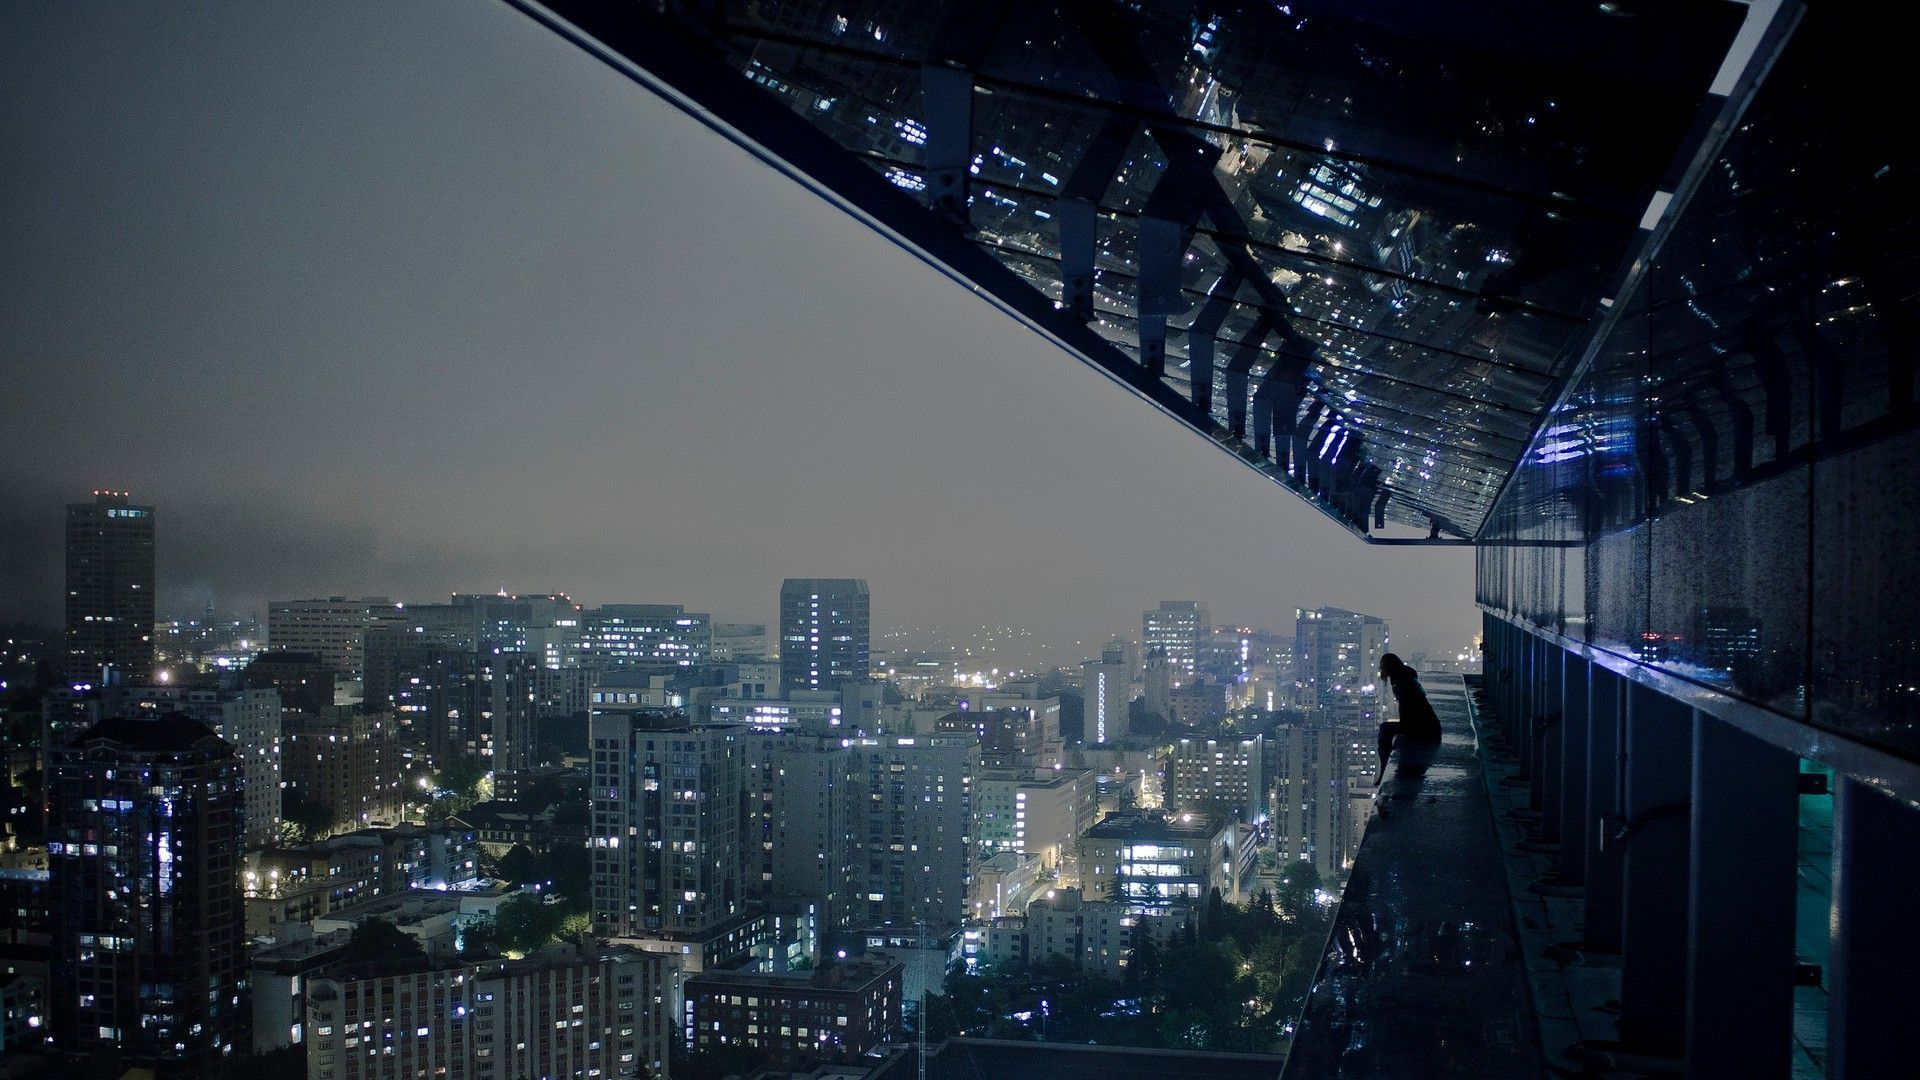
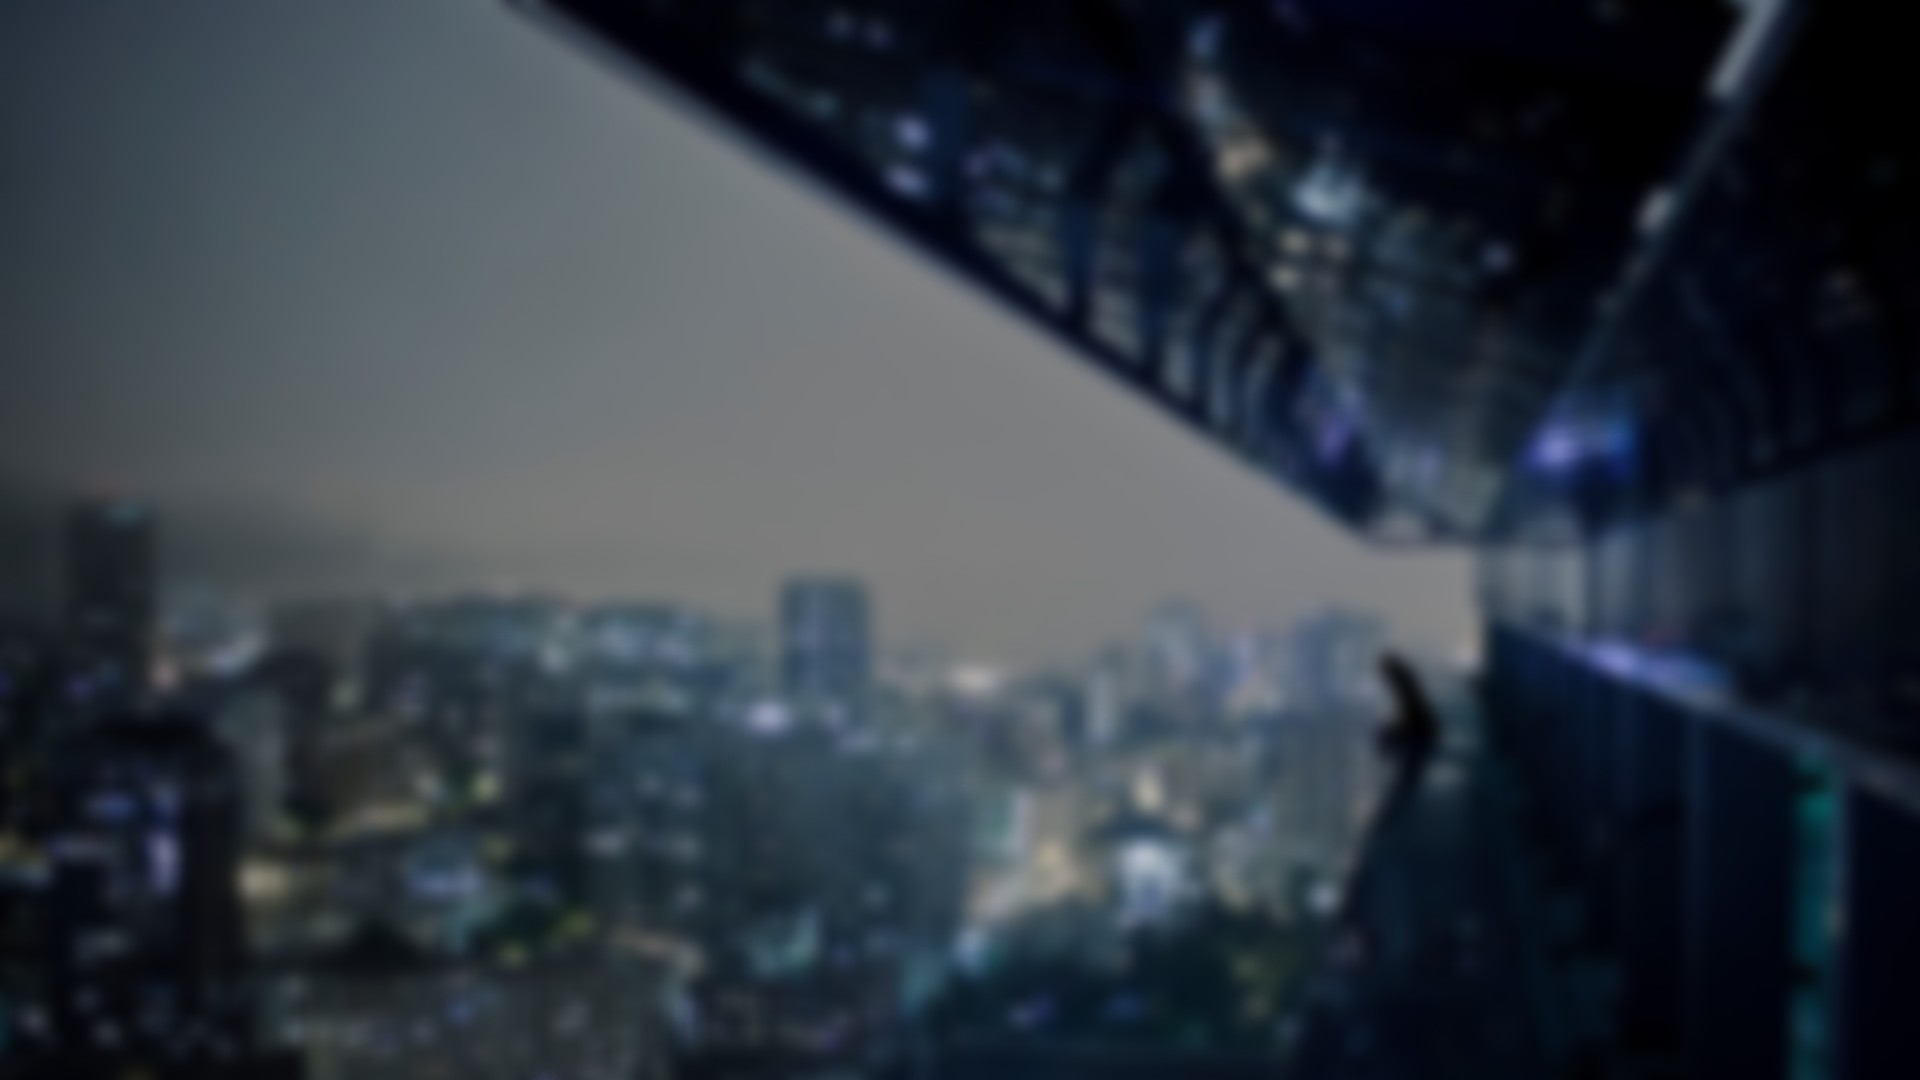
Updated Covers

diff --git a/Lessons/index.html b/Lessons/index.html
@@ -9,7 +9,7 @@
   <link rel="stylesheet" href="../style.css">
   <title>Josh's Portfolio | Lessons</title>
 </head>
-<body class="lessons-cover">
+<body class="bg-dark">
   <nav class="navbar navbar-dark bg-gradient navbar-expand-sm fixed-top">
     <a href="../index.html" class="navbar-brand">Josh Friedman</a>
     <button class="navbar-toggler" data-toggle="collapse" data-target="#navbarCollapse">
@@ -40,19 +40,18 @@
       </ul>
     </div>
   </nav>
-  <div class="jumbotron jumbotron-fluid lessons-cover h-100">
-    <div class="container text-light inner-cover h-100 row pl-5 pt-5">
-      <div class="col-md-6">
-        <h1 class="display-4">Lessons</h1>
+  <div class="jumbotron jumbotron-fluid lessons-cover h-100 d-flex">
+    <div class="container text-light inner-cover row m-auto justify-content-center align-self-center">
+      <div class="cover-text rounded text-center  p-3 justify-content-center">
+        <h1 class="display-1">Lessons</h1>
         <p class="lead">Scroll down to view the available lessons.</p>
       </div>
     </div>
   </div>
-  <div class="blur flex-grow-1"></div>
   <div class="container">
     <div class="row">
       <div class="col-sm-4 pb-3">
-        <div class="card h-100 bg-dark text-white">
+        <div class="card h-100 bg-darker text-white">
           <div class="card-header">
             Lesson 1
           </div>
@@ -66,7 +65,7 @@
         </div>
       </div>
       <div class="col-sm-4 pb-3">
-        <div class="card h-100 bg-dark text-white">
+        <div class="card h-100 bg-darker text-white">
           <div class="card-header">
             Lesson 2
           </div>
@@ -80,7 +79,7 @@
         </div>
       </div>
       <div class="col-sm-4 pb-3">
-        <div class="card h-100 bg-dark text-white">
+        <div class="card h-100 bg-darker text-white">
           <div class="card-header">
             Lesson 3
           </div>
@@ -94,7 +93,7 @@
         </div>
       </div>
       <div class="col-sm-4 pb-3">
-        <div class="card h-100 bg-dark text-white">
+        <div class="card h-100 bg-darker text-white">
           <div class="card-header">
             Lesson 4
           </div>
@@ -108,7 +107,7 @@
         </div>
       </div>
       <div class="col-sm-4 pb-3">
-        <div class="card h-100 bg-dark text-white">
+        <div class="card h-100 bg-darker text-white">
           <div class="card-header">
             Lesson 5
           </div>
@@ -122,7 +121,7 @@
         </div>
       </div>
       <div class="col-sm-4 pb-3">
-        <div class="card h-100 bg-dark text-white">
+        <div class="card h-100 bg-darker text-white">
           <div class="card-header">
             Lesson 6
           </div>
@@ -136,7 +135,7 @@
         </div>
       </div>
       <div class="col-sm-4 pb-3">
-        <div class="card h-100 bg-dark text-white">
+        <div class="card h-100 bg-darker text-white">
           <div class="card-header">
             Lesson 7
           </div>

diff --git a/Lessons/Searching.html b/Lessons/Searching.html
@@ -40,9 +40,9 @@
       </ul>
     </div>
   </nav>
-  <div class="jumbotron jumbotron-fluid searching-cover h-100">
-    <div class="container text-light inner-cover h-100 row pl-5 pt-5">
-      <div class="col-md-6">
+  <div class="jumbotron jumbotron-fluid searching-cover h-100 d-flex">
+    <div class="container text-light inner-cover row m-auto justify-content-center align-self-center">
+      <div class="cover-text rounded text-center  p-3 justify-content-center">
         <h1 class="display-4">Searching Arrays & ArrayLists</h1>
         <p class="lead">
           In this lesson you will learn how to search for a specific value in an Array and ArrayList.

diff --git a/Lessons/OOP2.html b/Lessons/OOP2.html
@@ -40,9 +40,9 @@
       </ul>
     </div>
   </nav>
-  <div class="jumbotron jumbotron-fluid oop2-cover h-100">
-    <div class="container text-light inner-cover h-100 row pl-5 pt-5">
-      <div class="col-md-6">
+  <div class="jumbotron jumbotron-fluid oop2-cover h-100 d-flex">
+    <div class="container text-light inner-cover row m-auto justify-content-center align-self-center">
+      <div class="cover-text rounded text-center  p-3 justify-content-center">
         <h1 class="display-4">OOP - Part 2</h1>
         <p class="lead">In this lesson you will learn more advanced aspects of Object Oriented Programming in Java.</p>
       </div>

diff --git a/Lessons/Sorting.html b/Lessons/Sorting.html
@@ -40,9 +40,9 @@
       </ul>
     </div>
   </nav>
-  <div class="jumbotron jumbotron-fluid sorting-cover h-100">
-    <div class="container text-light inner-cover h-100 row pl-5 pt-5">
-      <div class="col-md-6">
+  <div class="jumbotron jumbotron-fluid sorting-cover h-100 d-flex">
+    <div class="container text-light inner-cover row m-auto justify-content-center align-self-center">
+      <div class="cover-text rounded text-center  p-3 justify-content-center">
         <h1 class="display-4">Sorting Arrays & ArrayLists</h1>
         <p class="lead">
           In this lesson you will learn how to sort an Array and an ArrayList in Java.

diff --git a/Lessons/Recursion.html b/Lessons/Recursion.html
@@ -40,9 +40,9 @@
       </ul>
     </div>
   </nav>
-  <div class="jumbotron jumbotron-fluid recursion-cover h-100">
-    <div class="container text-light inner-cover h-100 row pl-5 pt-5">
-      <div class="col-md-6">
+  <div class="jumbotron jumbotron-fluid recursion-cover h-100 d-flex">
+    <div class="container text-light inner-cover row m-auto justify-content-center align-self-center">
+      <div class="cover-text rounded text-center  p-3 justify-content-center">
         <h1 class="display-4">Recursion</h1>
         <p class="lead">
           In this lesson you will learn the concept of recursion and how to apply it in Java.

diff --git a/Lessons/OOP1.html b/Lessons/OOP1.html
@@ -40,9 +40,9 @@
       </ul>
     </div>
   </nav>
-  <div class="jumbotron jumbotron-fluid oop1-cover h-100">
-    <div class="container text-light inner-cover h-100 row pl-5 pt-5">
-      <div class="col-md-6">
+  <div class="jumbotron jumbotron-fluid oop1-cover h-100 d-flex">
+    <div class="container text-light inner-cover row m-auto justify-content-center align-self-center">
+      <div class="cover-text rounded text-center  p-3 justify-content-center">
         <h1 class="display-4">OOP - Part 1</h1>
         <p class="lead">In this lesson you will learn the basics of Object Oriented Programming in Java.</p>
       </div>

diff --git a/Lessons/ArrayLists.html b/Lessons/ArrayLists.html
@@ -40,9 +40,9 @@
       </ul>
     </div>
   </nav>
-  <div class="jumbotron jumbotron-fluid arraylists-cover h-100">
-    <div class="container text-light inner-cover h-100 row pl-5 pt-5">
-      <div class="col-md-6">
+  <div class="jumbotron jumbotron-fluid arraylists-cover h-100 d-flex">
+    <div class="container text-light inner-cover row m-auto justify-content-center align-self-center">
+      <div class="cover-text rounded text-center  p-3 justify-content-center">
         <h1 class="display-4">ArrayLists</h1>
         <p class="lead">
           In this lesson you will learn how to use ArrayLists in Java.

diff --git a/Lessons/Arrays.html b/Lessons/Arrays.html
@@ -40,9 +40,9 @@
       </ul>
     </div>
   </nav>
-  <div class="jumbotron jumbotron-fluid arrays-cover h-100">
-    <div class="container text-light inner-cover h-100 row pl-5 pt-5">
-      <div class="col-md-6">
+  <div class="jumbotron jumbotron-fluid arrays-cover h-100 d-flex">
+    <div class="container text-light inner-cover row m-auto justify-content-center align-self-center">
+      <div class="cover-text rounded text-center p-3 justify-content-center">
         <h1 class="display-4">Arrays</h1>
         <p class="lead">
           In this lesson you will learn how to use Arrays in Java.

diff --git a/style.css b/style.css
@@ -2,6 +2,10 @@ body, html {
   height: 100%;
 }
 
+.cover-text {
+  background-color: rgba(0, 0, 0, 0.75);
+}
+
 .aboutme-cover {
   background-image: url("img/AboutMeBackground.jpg");
   background-attachment: fixed;
@@ -88,6 +92,10 @@ body, html {
 
 .bg-gradient {
   background-image: linear-gradient(rgba(0, 0, 0, 0.60), rgba(0,0,0,0));
+}
+
+.bg-darker {
+  background-color: #22262a;
 }
 
 @media (max-width: 576px) {
